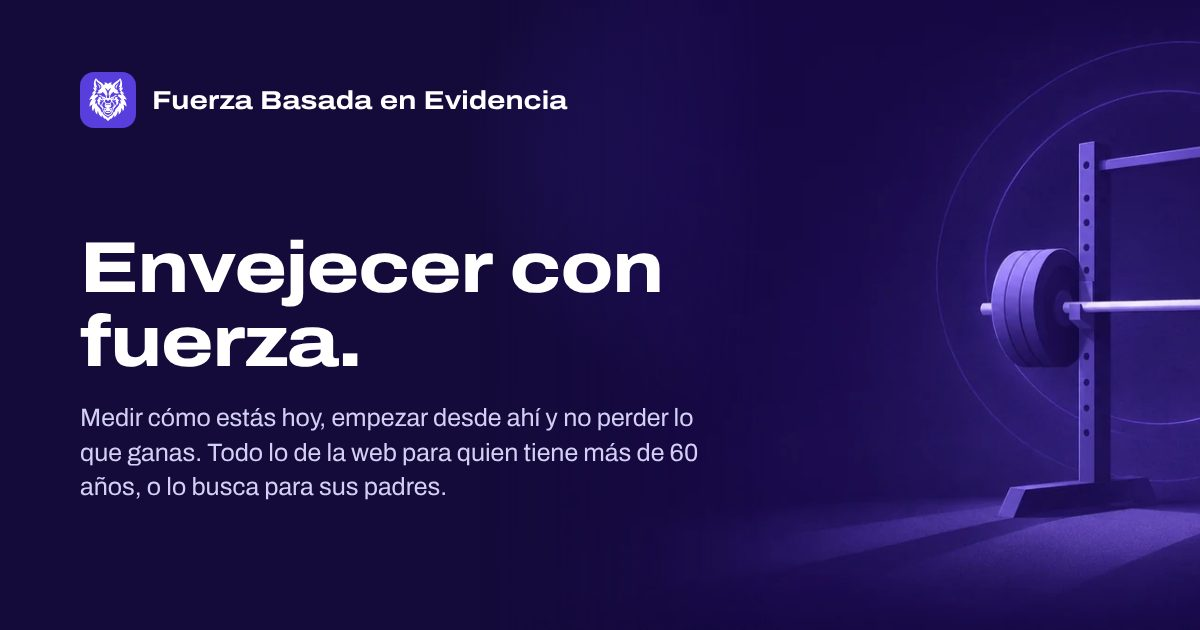
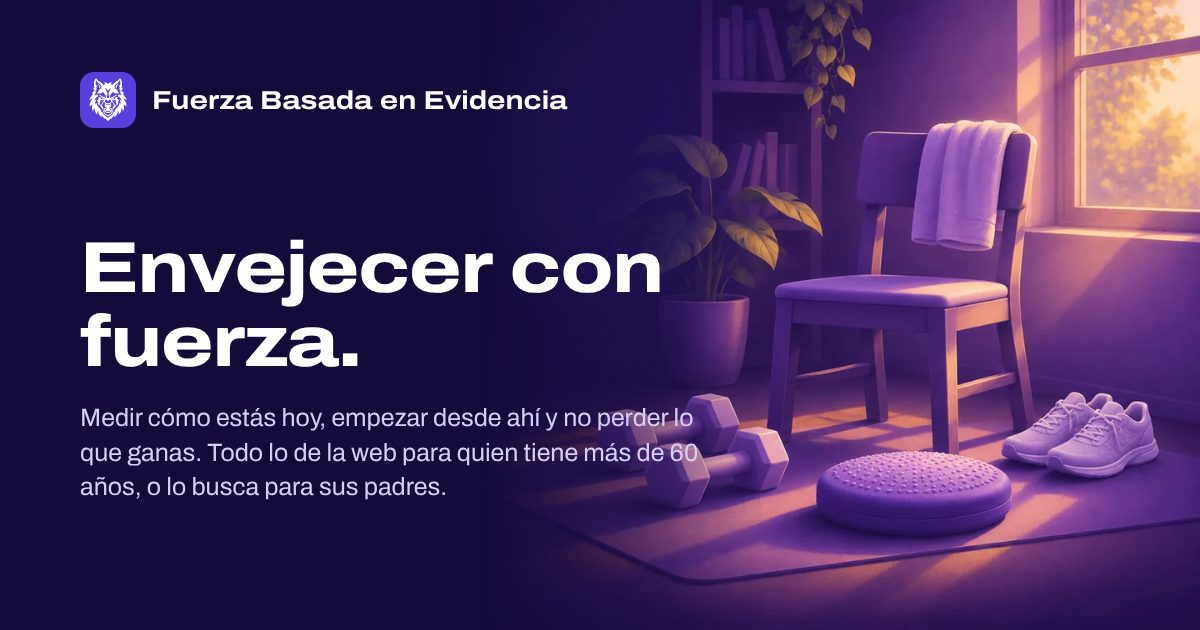
Cabecera de Envejecer con fuerza: bloque W12 completo
Claude-Session: https://claude.ai/code/session_01Ru5yvGXfDuFuGUYrexRL2R

diff --git a/tema-envejecer.html b/tema-envejecer.html
@@ -13,7 +13,7 @@
   <a class="btn peq claro" href="pedir-plaza.html">Pedir plaza</a>
   <details class="menu"><summary aria-label="Abrir el menú"><span></span></summary><div class="mm"><a href="index.html">Inicio</a><p class="mm-h">Asesoría</p><a href="quien-soy.html">Quién soy</a><a href="programas.html">Programas</a><a href="puesta-a-punto.html">Puesta a punto</a><p class="mm-h">Aprende</p><a href="empieza-aqui.html">Empieza aquí</a><a href="guias.html">Guías</a><a href="newsletter.html">Newsletter</a><a href="boletin.html">Archivo del boletín</a><a href="mitos.html">Mitos y evidencia</a><a href="glosario.html">Glosario</a><a href="recetas.html">Recetas con proteína</a><a href="videos.html">Vídeos</a><p class="mm-h">Herramientas</p><a href="herramientas.html">Todas las herramientas</a><a href="chequeo.html">Chequeo de 10 minutos</a><a href="pauta-activa.html">Pauta Activa</a><a href="calculadora-1rm.html">Calculadora de 1RM</a><a href="test-silla.html">Test de la silla</a><a href="zonas-pulso.html">Zonas de pulso</a><a href="mis-resultados.html">Mis resultados</a><p class="mm-h">Por tema</p><a href="tema-envejecer.html" class="aqui" aria-current="page">Envejecer con fuerza</a><a href="tema-medicacion.html">Medicación y enfermedad</a><a href="tema-dolor.html">Dolor y molestias</a><a href="tema-nutricion.html">Nutrición y suplementos</a><a href="tema-poco-tiempo.html">Poco tiempo</a><p class="mm-h">Ayuda</p><a href="dudas.html">Dudas</a><a href="profesionales.html">Para profesionales</a><a href="fuentes.html">Fuentes</a><a class="app" href="https://atletas.fuerzabasadaenevidencia.com">Ya soy atleta: entrar</a></div></details>
 </div></header>
-<div role="region" aria-labelledby="titulo" class="hero mini t-tema-envejecer" id="inicio"><svg class="anillos" viewBox="0 0 600 600" aria-hidden="true"><circle cx="300" cy="300" r="60"/><circle cx="300" cy="300" r="110"/><circle cx="300" cy="300" r="165"/><circle cx="300" cy="300" r="225"/><circle cx="300" cy="300" r="290"/><circle class="punto" cx="465" cy="300" r="7"/><circle class="punto p2" cx="300" cy="75" r="5"/></svg><div class="marca-agua"><svg class="lobo" viewBox="150 82 954 1092" aria-hidden="true"><path fill-rule="evenodd" d="M318 93C298 118 281 158 274 198C272 213 272 250 274 267C276 281 284 310 288 320C292 329 292 329 270 325C248 320 250 320 252 327C256 347 270 372 287 391L293 398 286 404C263 422 236 453 221 478C218 484 217 484 229 480C239 478 259 474 263 474C265 474 262 477 249 489C226 512 206 537 189 565C177 584 161 617 157 630L156 633 163 630C181 620 202 613 221 608C236 605 236 605 228 615C183 667 158 740 165 801C165 808 166 808 169 803C182 786 211 761 233 750C242 745 242 746 238 754C221 788 218 837 230 874C235 890 247 912 254 918C256 920 256 920 256 917C256 893 270 860 289 840L295 834 295 838C288 889 305 944 338 982C343 988 358 1001 359 1000C359 1000 358 997 358 993C356 977 357 955 362 939C364 930 375 908 377 907C377 907 378 910 378 915C381 949 401 995 427 1030C438 1044 456 1062 466 1068L469 1070 468 1058C468 1049 468 1044 469 1037C471 1026 476 1012 478 1013C478 1013 480 1017 482 1022C494 1052 520 1085 547 1108L556 1114 556 1103L557 1091 564 1101C577 1118 624 1167 627 1167C629 1167 672 1123 680 1114C684 1109 689 1102 692 1098L698 1090 698 1102C698 1109 698 1114 699 1114C700 1114 715 1101 724 1092C745 1071 764 1042 773 1020C775 1016 776 1013 777 1013C778 1013 782 1025 784 1035C786 1042 786 1046 786 1057C786 1064 786 1070 786 1070C788 1070 804 1056 811 1048C843 1015 867 966 874 923C875 918 876 912 877 910L877 907 880 911C893 929 900 965 896 992C896 996 895 1000 896 1000C896 1001 909 990 916 982C949 947 965 893 959 839L959 834 963 838C982 855 998 891 998 916C998 921 999 921 1005 912C1023 889 1031 860 1031 826C1031 799 1026 774 1017 755C1012 746 1012 745 1020 750C1041 760 1067 781 1083 800L1088 807 1089 803C1091 795 1089 756 1087 743C1079 696 1058 652 1026 615C1018 604 1017 604 1036 609C1053 613 1074 621 1091 630C1095 631 1098 633 1098 633C1098 630 1087 603 1081 592C1062 554 1037 521 1004 489C996 480 989 474 989 474C990 473 1018 478 1026 481C1032 482 1036 483 1036 483C1036 482 1018 455 1011 447C1001 435 980 414 970 406C965 402 961 398 961 398C961 397 964 393 968 389C984 372 998 347 1003 324C1004 320 1005 320 984 325C961 329 963 330 967 319C989 259 986 188 960 132C952 115 934 88 931 88C931 88 925 94 919 101C889 133 862 154 809 186C780 204 763 219 749 239C743 249 736 264 734 270C733 278 730 266 730 251L730 240 727 241C715 244 709 245 701 248C696 250 692 252 692 252C692 251 695 243 698 236C703 225 709 217 720 207L728 199 718 198C686 196 653 207 633 225L627 231 621 226C601 206 562 194 531 199L526 200 532 204C540 211 550 224 555 233C559 241 563 251 562 252C562 252 558 250 553 248C546 246 538 243 527 241L525 240 525 251C525 262 523 274 521 272C521 272 520 269 519 266C508 236 487 213 445 187C408 165 396 156 378 142C366 133 341 108 331 96C327 92 323 88 323 88C323 88 320 90 318 93M324 142C318 165 318 198 322 222C327 250 340 282 357 310L362 318 357 318C355 317 346 315 339 312C332 310 326 308 325 308C324 309 331 326 337 337C342 347 351 361 357 367L359 370 355 370C349 370 338 368 327 365C323 363 319 363 319 363C319 366 332 389 337 395L340 397 337 399C324 408 309 423 298 437C293 443 293 443 306 440C315 437 330 435 335 435C337 435 335 437 330 443C312 463 297 487 288 510C284 521 284 522 289 519C305 508 329 499 353 494C355 493 357 494 364 504C374 517 380 527 384 535L387 540 382 542C347 555 315 584 298 620C293 630 286 648 288 648C288 648 292 645 297 642C305 636 325 625 331 623L333 623 331 626C320 645 313 665 309 690C308 701 308 733 309 735C310 735 311 734 313 732C321 722 336 708 338 708C339 708 339 711 339 715C343 751 367 791 416 841C434 860 436 863 444 884C451 902 459 920 464 931C468 939 475 951 476 951C476 951 477 947 478 942C480 934 483 926 484 926C484 927 486 933 489 940C497 966 512 993 527 1008C537 1019 547 1027 563 1035C582 1044 592 1051 602 1061C610 1069 621 1084 625 1092C627 1097 627 1097 630 1092C633 1084 643 1070 650 1063C660 1052 668 1046 687 1036C697 1031 708 1025 712 1022C734 1005 753 976 765 940L771 925 773 930C774 933 776 939 777 943L778 951 780 949C786 941 801 908 811 881C818 863 819 861 836 843C872 806 888 786 901 760C909 742 915 722 915 711C915 709 915 708 916 708C918 708 931 720 941 731C943 733 944 735 945 735C945 734 945 725 945 713C945 682 940 661 927 635C920 621 920 622 932 627C939 630 955 640 961 645C967 649 967 648 963 636C950 596 915 559 875 543L867 540 871 532C875 525 889 504 896 497L899 493 907 495C922 498 935 503 952 512C961 516 969 520 969 520C970 520 965 507 959 496C950 476 938 459 922 441C917 436 917 435 919 435C924 435 942 438 950 440C955 441 959 442 959 442C959 441 954 434 945 424C938 417 930 409 917 399L915 397 921 389C927 380 935 366 935 364C935 363 934 363 929 364C917 368 896 371 896 369C896 369 899 365 902 361C909 351 914 344 919 334C924 325 930 309 929 308C928 308 926 309 922 310C915 313 896 318 894 318C892 318 893 316 898 308C928 258 940 210 934 162C932 150 929 136 928 135C928 134 925 138 922 143C910 163 890 185 867 205C835 231 830 235 821 245C800 267 791 286 792 307C794 332 805 348 840 373C866 391 885 407 882 408C881 409 875 410 869 412C862 414 857 416 857 416C857 417 861 419 865 422C880 432 893 445 904 460L908 466 895 466C859 468 831 474 808 484C805 485 803 486 802 486C800 483 816 466 824 462L829 460 824 459C817 457 798 459 784 463C777 465 771 467 771 467C770 466 776 448 780 440L786 429 782 430C732 437 679 509 676 575C676 592 676 592 684 587C693 581 709 568 724 554L737 542 737 546C737 547 736 553 736 558C735 562 734 566 734 567C735 568 758 552 771 540C786 528 802 518 820 511C826 509 852 502 853 502C854 503 848 513 843 519C835 530 823 538 804 546C792 551 783 556 772 562L764 567 768 571C772 577 772 577 779 573C786 569 786 569 786 575C789 594 770 608 752 599L748 597 743 602C737 609 737 608 742 612C758 625 783 622 797 606C804 598 811 578 810 568C810 566 810 565 820 561L831 556 840 559C851 563 862 568 871 575C878 580 878 580 873 582C871 583 866 585 862 587L854 591 857 594C874 607 887 622 896 641C901 651 907 666 905 666C905 666 900 664 894 662C881 656 879 656 881 659C887 674 889 701 884 717C881 728 876 741 871 749C864 760 865 760 862 751C857 738 850 728 850 735C850 738 843 757 840 764C828 788 804 818 783 837L773 845 772 854C764 893 741 952 722 980C711 997 700 1005 669 1018C653 1025 640 1035 630 1046L627 1050 618 1041C607 1030 599 1024 582 1016C558 1006 550 1001 540 991C520 968 493 905 483 855L481 846 472 837C438 806 416 775 407 746C402 730 403 731 399 736C397 741 395 745 390 757C389 761 378 742 372 726C365 705 365 679 372 662C373 659 374 657 373 657C371 657 360 661 355 664C352 665 349 666 349 666C348 665 353 650 358 640C366 623 380 607 393 597C397 594 400 592 400 591C400 591 389 586 383 583C380 582 377 580 377 580C377 577 405 561 417 558L422 556 433 561L445 565 444 569C443 579 449 596 456 605C470 622 497 625 513 611L516 608 511 603L506 597 502 599C495 603 485 602 478 598C470 593 465 582 467 573L468 570 475 573C483 577 482 577 486 571L489 567 484 564C474 557 465 553 451 547C428 537 419 531 410 519C407 514 401 504 401 503C401 502 422 507 433 511C451 518 467 527 485 542C497 552 514 564 518 567C521 568 521 568 521 567C519 564 517 544 517 543C518 543 521 545 524 549C542 565 574 591 577 591C579 591 577 562 575 550C562 492 520 442 478 431C473 430 469 429 469 429C469 430 471 434 474 440C478 449 484 466 483 467C482 467 479 466 474 465C459 460 434 456 428 459C426 460 426 460 432 463C439 468 447 476 450 482C451 484 452 486 452 486C451 486 448 485 444 483C421 473 394 468 360 466L346 466 348 463C355 450 386 421 395 418C396 418 397 417 397 417C397 416 381 411 375 409C373 409 371 408 371 408C371 406 391 389 413 374C433 359 439 354 446 346C464 324 467 299 455 275C445 256 430 239 399 215C368 190 344 164 331 142C329 138 326 134 326 134C326 134 325 137 324 142M888 227C884 230 874 238 866 244C839 262 830 271 823 284C812 302 816 322 834 338C842 346 853 353 852 349C845 334 844 329 844 318C844 299 852 283 874 257C884 244 897 224 896 221C896 221 892 223 888 227M358 222C358 226 371 245 383 260C405 286 411 300 410 321C409 331 409 334 406 342C404 347 402 351 403 351C405 351 418 341 423 336C437 320 441 303 433 287C426 273 418 265 390 244C381 239 371 231 367 227C359 221 358 220 358 222M552 344C584 378 606 426 611 474C612 485 612 525 611 527C611 529 610 527 607 522C603 516 591 502 590 503C590 503 591 508 593 512C599 535 602 563 599 582C599 586 599 589 599 589C599 589 603 586 607 583C611 579 615 576 615 576C615 576 618 579 621 583C624 588 627 591 627 591C627 591 630 588 633 584C637 579 639 576 639 576C640 576 643 579 646 582C656 590 656 590 655 581C652 561 655 531 662 510C663 506 663 503 663 503C661 503 649 518 646 523C642 531 642 529 642 505C642 474 646 450 655 423C664 396 684 363 702 344C708 338 708 338 700 341C676 348 648 370 633 393C630 398 627 402 627 402C627 402 624 398 621 393C607 371 581 350 557 342C547 338 546 338 552 344M513 580C513 581 520 592 524 596C530 603 535 605 545 605C555 605 555 604 548 600C544 598 536 593 529 589C515 580 513 579 513 580M735 583C728 587 710 598 704 601C698 604 700 605 709 605C721 606 730 599 739 583C742 578 741 578 735 583M565 624C557 629 553 644 556 657C557 663 557 662 553 659C548 657 548 656 548 659C548 660 547 663 546 665L544 670 555 681C571 696 577 706 577 713C576 716 576 719 575 719C575 721 576 720 581 719C609 710 647 710 673 719C676 720 679 721 679 721C679 721 678 718 678 715C676 710 676 710 679 705C686 693 697 681 708 672C711 670 711 670 710 668C709 667 708 664 707 661L706 657 701 660C697 663 697 663 697 661C699 655 699 641 698 636C694 628 687 622 681 622C668 622 643 642 632 660C630 664 627 668 627 668C627 668 625 665 623 662C615 648 600 633 585 626C576 621 571 621 565 624M420 623C420 624 421 626 422 629C427 643 435 655 445 661L450 665 443 669C427 680 415 699 418 711C421 725 434 751 443 765C449 774 459 787 460 787C460 787 460 784 460 779C456 739 476 695 512 668C516 665 521 661 522 659C524 655 527 647 527 646C526 643 515 642 506 643C470 647 453 644 431 630C420 623 420 623 420 623M825 628C816 635 805 640 794 643C785 645 770 645 749 643C734 641 727 643 728 648C728 655 732 660 744 670C779 698 797 736 794 778C794 783 794 787 794 787C795 787 805 773 811 764C821 750 831 728 836 713C837 706 836 699 831 691C827 685 815 672 809 669C806 667 804 665 804 665C804 665 807 663 810 661C819 654 831 637 833 626C834 622 834 622 825 628M523 686C485 716 471 770 494 804C517 839 564 853 606 839C609 838 612 836 612 836C612 836 608 834 603 833C559 818 535 784 545 751C547 744 554 733 558 731C564 728 564 728 559 718C553 707 548 702 537 691L528 682 523 686M716 692C706 702 700 710 694 721L691 727 697 733C720 754 714 792 685 815C677 821 663 828 651 832C643 835 641 836 643 837C644 837 647 838 649 839C663 844 686 846 703 842C733 836 759 814 768 789C771 777 772 756 768 743C763 721 751 702 733 688C729 685 726 682 726 682C725 682 721 686 716 692M604 732C578 736 565 750 569 768C570 774 571 774 574 768C581 756 596 749 621 747C650 746 673 754 682 770L683 773 684 771C686 767 686 756 684 752C680 743 671 737 656 733C646 730 616 729 604 732M504 841C504 859 513 895 522 915L525 922 527 914C528 905 532 889 535 883C536 880 536 879 534 868C532 862 531 856 530 854C530 853 528 851 525 850C521 848 516 844 512 841L504 836 504 841M747 838C745 840 736 846 729 849C726 851 724 853 724 854C723 855 722 862 720 868C718 879 718 880 719 883C722 891 725 903 727 912L729 922 731 917C738 903 746 876 749 856C751 838 750 833 747 838M547 859C547 865 556 888 561 894L563 896 565 887C567 883 569 875 571 871C574 863 574 862 571 862C568 862 552 859 549 858C548 858 547 858 547 859M700 860C696 860 691 861 687 862C684 862 681 863 681 863C681 864 687 883 691 895C691 897 694 894 698 886C702 878 709 858 706 858C706 858 703 859 700 860M578 901C571 917 572 931 580 935C583 937 590 937 626 937C667 937 671 937 674 935C682 931 683 916 676 901L674 897 670 904C667 908 664 913 662 915L659 919 641 920C628 921 620 921 610 920C593 919 594 919 585 906L580 897 578 901M544 901C540 912 538 942 540 952C546 974 558 984 590 996C606 1002 613 1006 621 1012L627 1017 631 1014C637 1008 648 1002 661 997C690 987 702 979 709 963C716 951 717 932 713 913C710 899 710 898 707 908C697 935 685 952 673 957C653 966 598 966 580 957C569 952 558 936 548 909C544 899 544 899 544 901"/></svg></div><div class="in"><div class="txt"><span class="miga"><a href="index.html">Inicio</a> / Envejecer con fuerza</span><h1 id="titulo">Envejecer con fuerza.</h1><p class="sub">Medir cómo estás hoy, empezar desde ahí y no perder lo que ganas. Todo lo de la web para quien tiene más de 60 años, o lo busca para sus padres.</p><p class="firma"><img class="firma-foto" src="img/firma-pelayo.webp" alt="" width="56" height="56" decoding="async" srcset="img/v/firma-pelayo-96.webp 96w, img/firma-pelayo.webp 112w" sizes="(max-width: 700px) 112px, 112px"><span class="firma-t"><span class="firma-q">Por <a href="quien-soy.html">Pelayo Fernández Cidón</a>, médico internista</span><span class="firma-m"><span class="firma-f">Actualizado el <time datetime="2026-11-21" title="21 de noviembre de 2026">21/11/2026</time></span><a class="firma-c" href="#fuentes-tema" title="Comprobadas en PubMed el 21 de noviembre de 2026">Fuentes comprobadas</a><a class="firma-e" href="evidencia.html">Cómo trabajo la evidencia</a></span></span></p><div class="cta"><a class="btn claro" href="#empieza">Por dónde empezar</a><a class="enl" href="#herramientas">Ver las herramientas</a></div></div></div></div>
+<div role="region" aria-labelledby="titulo" class="hero mini t-tema-envejecer" id="inicio"><svg class="anillos" viewBox="0 0 600 600" aria-hidden="true"><circle cx="300" cy="300" r="60"/><circle cx="300" cy="300" r="110"/><circle cx="300" cy="300" r="165"/><circle cx="300" cy="300" r="225"/><circle cx="300" cy="300" r="290"/><circle class="punto" cx="465" cy="300" r="7"/><circle class="punto p2" cx="300" cy="75" r="5"/></svg><img class="ilus" src="img/web-tema-envejecer.webp" alt="" width="864" height="760" loading="eager" fetchpriority="high" decoding="async" srcset="img/v/web-tema-envejecer-96.webp 96w, img/v/web-tema-envejecer-160.webp 160w, img/v/web-tema-envejecer-360.webp 360w, img/v/web-tema-envejecer-480.webp 480w, img/v/web-tema-envejecer-640.webp 640w, img/web-tema-envejecer.webp 864w" sizes="(max-width: 700px) 360px, 600px"><div class="in"><div class="txt"><span class="miga"><a href="index.html">Inicio</a> / Envejecer con fuerza</span><h1 id="titulo">Envejecer con fuerza.</h1><p class="sub">Medir cómo estás hoy, empezar desde ahí y no perder lo que ganas. Todo lo de la web para quien tiene más de 60 años, o lo busca para sus padres.</p><p class="firma"><img class="firma-foto" src="img/firma-pelayo.webp" alt="" width="56" height="56" decoding="async" srcset="img/v/firma-pelayo-96.webp 96w, img/firma-pelayo.webp 112w" sizes="(max-width: 700px) 112px, 112px"><span class="firma-t"><span class="firma-q">Por <a href="quien-soy.html">Pelayo Fernández Cidón</a>, médico internista</span><span class="firma-m"><span class="firma-f">Actualizado el <time datetime="2026-11-21" title="21 de noviembre de 2026">21/11/2026</time></span><a class="firma-c" href="#fuentes-tema" title="Comprobadas en PubMed el 21 de noviembre de 2026">Fuentes comprobadas</a><a class="firma-e" href="evidencia.html">Cómo trabajo la evidencia</a></span></span></p><div class="cta"><a class="btn claro" href="#empieza">Por dónde empezar</a><a class="enl" href="#herramientas">Ver las herramientas</a></div></div></div></div>
 <main id="contenido">
 <section><div class="in">
   <nav class="tm-indice sube" aria-label="En esta página"><b>En esta página</b><a href="#empieza">Por dónde empezar</a><a href="#herramientas">Herramientas</a><a href="#mitos">Mitos</a><a href="#palabras">Palabras</a><a href="#guias">Guías</a><a href="#boletin">Boletín</a><a href="#fuentes-tema">Fuentes</a></nav>
@@ -22,7 +22,7 @@
   <p class="sec-enl sube"><b>Es tu caso</b><a href="empieza-aqui.html#mayores">Tu ruta en Empieza aquí</a></p>
 </div></section>
 <section class="hoja" id="herramientas"><div class="in"><div class="entrada sube"><h2>Herramientas</h2><p>Gratis, en tu navegador y con la fuente al pie.</p></div>
-  <div class="herr-mas-rej sube"><a class="herr-mini" href="test-sppb.html" data-q="test sppb para tus padres equilibrio, marcha y levantarse de la silla, con cronometro y puntuacion de 0 a 12. mayores padres equilibrio marcha fragilidad"><img class="herr-mini-img" src="img/herr-sppb.webp" alt="" width="960" height="540" loading="eager" decoding="async" srcset="img/v/herr-sppb-96.webp 96w, img/v/herr-sppb-160.webp 160w, img/v/herr-sppb-360.webp 360w, img/v/herr-sppb-480.webp 480w, img/v/herr-sppb-640.webp 640w, img/herr-sppb.webp 960w" sizes="(max-width: 700px) 320px, 340px"><b>Test SPPB para tus padres</b><span>Equilibrio, marcha y levantarse de la silla, con cronómetro y puntuación de 0 a 12.</span></a><a class="herr-mini" href="test-silla.html" data-q="test de la silla en 30 segundos cronometro, contador y comparacion con los valores de referencia de 60 a 94 anos. piernas mayores caidas levantarse"><img class="herr-mini-img" src="img/herr-silla.webp" alt="" width="960" height="540" loading="lazy" decoding="async" srcset="img/v/herr-silla-96.webp 96w, img/v/herr-silla-160.webp 160w, img/v/herr-silla-360.webp 360w, img/v/herr-silla-480.webp 480w, img/v/herr-silla-640.webp 640w, img/herr-silla.webp 960w" sizes="(max-width: 700px) 320px, 340px"><b>Test de la silla en 30 segundos</b><span>Cronómetro, contador y comparación con los valores de referencia de 60 a 94 años.</span></a><a class="herr-mini" href="prension.html" data-q="fuerza de prension tu fuerza con un dinamometro, frente al punto de corte del consenso europeo de sarcopenia. dinamometro mano sarcopenia agarre"><img class="herr-mini-img" src="img/herr-prension.webp" alt="" width="960" height="540" loading="lazy" decoding="async" srcset="img/v/herr-prension-96.webp 96w, img/v/herr-prension-160.webp 160w, img/v/herr-prension-360.webp 360w, img/v/herr-prension-480.webp 480w, img/v/herr-prension-640.webp 640w, img/herr-prension.webp 960w" sizes="(max-width: 700px) 320px, 340px"><b>Fuerza de prensión</b><span>Tu fuerza con un dinamómetro, frente al punto de corte del consenso europeo de sarcopenia.</span></a><a class="herr-mini" href="actividad-oms.html" data-q="¿llegas a lo minimo de la oms? tu semana de actividad frente a las recomendaciones de la oms: aerobica, fuerza y equilibrio. minutos semana caminar recomendaciones"><img class="herr-mini-img" src="img/herr-oms.webp" alt="" width="960" height="540" loading="lazy" decoding="async" srcset="img/v/herr-oms-96.webp 96w, img/v/herr-oms-160.webp 160w, img/v/herr-oms-360.webp 360w, img/v/herr-oms-480.webp 480w, img/v/herr-oms-640.webp 640w, img/herr-oms.webp 960w" sizes="(max-width: 700px) 320px, 340px"><b>¿Llegas a lo mínimo de la OMS?</b><span>Tu semana de actividad frente a las recomendaciones de la OMS: aeróbica, fuerza y equilibrio.</span></a><a class="herr-mini" href="revision-medica.html" data-q="¿necesito revision medica? tres preguntas del cribado del acsm antes de empezar a entrenar. medico corazon riesgo cribado empezar"><img class="herr-mini-img" src="img/herr-revision.webp" alt="" width="960" height="540" loading="lazy" decoding="async" srcset="img/v/herr-revision-96.webp 96w, img/v/herr-revision-160.webp 160w, img/v/herr-revision-360.webp 360w, img/v/herr-revision-480.webp 480w, img/v/herr-revision-640.webp 640w, img/herr-revision.webp 960w" sizes="(max-width: 700px) 320px, 340px"><b>¿Necesito revisión médica?</b><span>Tres preguntas del cribado del ACSM antes de empezar a entrenar.</span></a><a class="herr-mini" href="paron.html" data-q="¿cuanto pierdo si paro? que se pierde en unas semanas sin entrenar y lo minimo para mantenerlo. vacaciones descanso perder musculo"><img class="herr-mini-img" src="img/herr-paron.webp" alt="" width="960" height="540" loading="lazy" decoding="async" srcset="img/v/herr-paron-96.webp 96w, img/v/herr-paron-160.webp 160w, img/v/herr-paron-360.webp 360w, img/v/herr-paron-480.webp 480w, img/v/herr-paron-640.webp 640w, img/herr-paron.webp 960w" sizes="(max-width: 700px) 320px, 340px"><b>¿Cuánto pierdo si paro?</b><span>Qué se pierde en unas semanas sin entrenar y lo mínimo para mantenerlo.</span></a></div>
+  <div class="herr-mas-rej sube"><a class="herr-mini" href="test-sppb.html" data-q="test sppb para tus padres equilibrio, marcha y levantarse de la silla, con cronometro y puntuacion de 0 a 12. mayores padres equilibrio marcha fragilidad"><img class="herr-mini-img" src="img/herr-sppb.webp" alt="" width="960" height="540" loading="lazy" decoding="async" srcset="img/v/herr-sppb-96.webp 96w, img/v/herr-sppb-160.webp 160w, img/v/herr-sppb-360.webp 360w, img/v/herr-sppb-480.webp 480w, img/v/herr-sppb-640.webp 640w, img/herr-sppb.webp 960w" sizes="(max-width: 700px) 320px, 340px"><b>Test SPPB para tus padres</b><span>Equilibrio, marcha y levantarse de la silla, con cronómetro y puntuación de 0 a 12.</span></a><a class="herr-mini" href="test-silla.html" data-q="test de la silla en 30 segundos cronometro, contador y comparacion con los valores de referencia de 60 a 94 anos. piernas mayores caidas levantarse"><img class="herr-mini-img" src="img/herr-silla.webp" alt="" width="960" height="540" loading="lazy" decoding="async" srcset="img/v/herr-silla-96.webp 96w, img/v/herr-silla-160.webp 160w, img/v/herr-silla-360.webp 360w, img/v/herr-silla-480.webp 480w, img/v/herr-silla-640.webp 640w, img/herr-silla.webp 960w" sizes="(max-width: 700px) 320px, 340px"><b>Test de la silla en 30 segundos</b><span>Cronómetro, contador y comparación con los valores de referencia de 60 a 94 años.</span></a><a class="herr-mini" href="prension.html" data-q="fuerza de prension tu fuerza con un dinamometro, frente al punto de corte del consenso europeo de sarcopenia. dinamometro mano sarcopenia agarre"><img class="herr-mini-img" src="img/herr-prension.webp" alt="" width="960" height="540" loading="lazy" decoding="async" srcset="img/v/herr-prension-96.webp 96w, img/v/herr-prension-160.webp 160w, img/v/herr-prension-360.webp 360w, img/v/herr-prension-480.webp 480w, img/v/herr-prension-640.webp 640w, img/herr-prension.webp 960w" sizes="(max-width: 700px) 320px, 340px"><b>Fuerza de prensión</b><span>Tu fuerza con un dinamómetro, frente al punto de corte del consenso europeo de sarcopenia.</span></a><a class="herr-mini" href="actividad-oms.html" data-q="¿llegas a lo minimo de la oms? tu semana de actividad frente a las recomendaciones de la oms: aerobica, fuerza y equilibrio. minutos semana caminar recomendaciones"><img class="herr-mini-img" src="img/herr-oms.webp" alt="" width="960" height="540" loading="lazy" decoding="async" srcset="img/v/herr-oms-96.webp 96w, img/v/herr-oms-160.webp 160w, img/v/herr-oms-360.webp 360w, img/v/herr-oms-480.webp 480w, img/v/herr-oms-640.webp 640w, img/herr-oms.webp 960w" sizes="(max-width: 700px) 320px, 340px"><b>¿Llegas a lo mínimo de la OMS?</b><span>Tu semana de actividad frente a las recomendaciones de la OMS: aeróbica, fuerza y equilibrio.</span></a><a class="herr-mini" href="revision-medica.html" data-q="¿necesito revision medica? tres preguntas del cribado del acsm antes de empezar a entrenar. medico corazon riesgo cribado empezar"><img class="herr-mini-img" src="img/herr-revision.webp" alt="" width="960" height="540" loading="lazy" decoding="async" srcset="img/v/herr-revision-96.webp 96w, img/v/herr-revision-160.webp 160w, img/v/herr-revision-360.webp 360w, img/v/herr-revision-480.webp 480w, img/v/herr-revision-640.webp 640w, img/herr-revision.webp 960w" sizes="(max-width: 700px) 320px, 340px"><b>¿Necesito revisión médica?</b><span>Tres preguntas del cribado del ACSM antes de empezar a entrenar.</span></a><a class="herr-mini" href="paron.html" data-q="¿cuanto pierdo si paro? que se pierde en unas semanas sin entrenar y lo minimo para mantenerlo. vacaciones descanso perder musculo"><img class="herr-mini-img" src="img/herr-paron.webp" alt="" width="960" height="540" loading="lazy" decoding="async" srcset="img/v/herr-paron-96.webp 96w, img/v/herr-paron-160.webp 160w, img/v/herr-paron-360.webp 360w, img/v/herr-paron-480.webp 480w, img/v/herr-paron-640.webp 640w, img/herr-paron.webp 960w" sizes="(max-width: 700px) 320px, 340px"><b>¿Cuánto pierdo si paro?</b><span>Qué se pierde en unas semanas sin entrenar y lo mínimo para mantenerlo.</span></a></div>
 </div></section>
 <section id="mitos"><div class="in"><div class="entrada sube"><h2>Mitos que conviene conocer</h2><p>Lo que dicen los estudios, con el tipo de estudio de cada respuesta.</p></div>
   <div class="tm-mitos sube"><a class="tm-mito" data-ver="f" href="mitos.html#sesenta"><span class="tm-ver">Falso</span><b>«A partir de los 60 ya no se gana músculo.»</b><small>Metaanálisis</small></a><a class="tm-mito" data-ver="f" href="mitos.html#artrosis"><span class="tm-ver">Falso</span><b>«Con artrosis de rodilla, mejor no cargar la articulación.»</b><small>Guía clínica</small></a><a class="tm-mito" data-ver="f" href="mitos.html#estirar"><span class="tm-ver">Falso</span><b>«Estirar antes de entrenar evita lesiones.»</b><small>Metaanálisis</small></a></div>

diff --git a/CLAUDE.md b/CLAUDE.md
@@ -170,5 +170,5 @@ Lista enviada a Pelayo tras revisar webs de referencia (Examine, Peter Attia, He
 - Respuestas de Pelayo (21/11/2026, noche) en Cómo trabajo la evidencia: su hospital como lo escribió («Hospital Universitario La Paz / Carlos III / Cantoblanco», constante `HOSPITAL` de autoria.py, también en `worksFor` de los datos para buscadores), «No cobro de marcas ni uso enlaces de afiliado» y «Los preparo con ayuda de herramientas digitales y los reviso yo» (sección «Cómo preparo los textos y de qué vive esto»). Ojo: las guías de la página Guías son de pago (5,99 € la mayoría), así que la web dice que vende la asesoría y las guías. El resto de la web dice «Hospital Universitario La Paz», y así se queda (lo decidió Pelayo el 22/11/2026).
 - El boletín, por tema (M19): `fuente/boletin_cta.py` (después de recetas.py) pone al final de cada herramienta (antes de la Puesta a punto), de Mitos y del Glosario una invitación al boletín con las frases de la página Newsletter y los tres últimos envíos del tema de esa página (primer tema de `TEMAS` que incluye la herramienta, con `_tm_bol`; si no hay, los tres últimos). «Apuntarme» lleva a `newsletter.html#alta` (el formulario de MailerLite solo se carga allí). Prueba `boletin-cta.mjs`.
 - Datos para buscadores (M4): `fuente/datos.py` (después de extras2.py). Portada: Organization y WebSite (junto a su FAQPage). Quién soy: ProfilePage con la persona (credenciales de la lista de «Cómo trabajo la evidencia», `HOSPITAL` y redes) en lugar de la Person suelta (`LDP` de interior.py). Mitos: cada mito como ClaimReview con su veredicto (`MITO_VER`). Herramientas (CollectionPage) y Recetas (ItemList). El resto ya estaba (migas, WebApplication, DefinedTermSet, FAQPage de Dudas y Puesta a punto, Service). Los canónicos ya apuntan al dominio final (`WEB`). Prueba `datos.mjs` (lee todos los bloques de todas las páginas).
-- Bloque W12 de imágenes (prompts en el doc del proyecto «claude/web-imagenes-prompts-w12.md»): 8 cabeceras: `web-chequeo`, `web-fuentes`, `web-recetas` y `web-tema-envejecer/medicacion/dolor/nutricion/poco-tiempo`. Recorte: el 64 % derecho a 864 × 760. Colocadas 7 el 22/11/2026 (de recetas y de medicación llegaron dos versiones: van la de atún más natural y la del pastillero de siete huecos); falta `web-tema-envejecer`.
+- Bloque W12 de imágenes (prompts en el doc del proyecto «claude/web-imagenes-prompts-w12.md»): 8 cabeceras: `web-chequeo`, `web-fuentes`, `web-recetas` y `web-tema-envejecer/medicacion/dolor/nutricion/poco-tiempo`. Recorte: el 64 % derecho a 864 × 760. Colocadas las 8 el 22/11/2026, bloque completo (de recetas y de medicación llegaron dos versiones: van la de atún más natural y la del pastillero de siete huecos).
 - Vídeos en cuadrícula (M11): pendiente. Hace falta la lista de vídeos del canal y desde aquí no se puede leer (YouTube no deja y vidIQ tiene 3 créditos hasta el 10/12/2026; leer el canal cuesta 5). Si Pelayo manda los enlaces, se monta la cuadrícula por temas.
